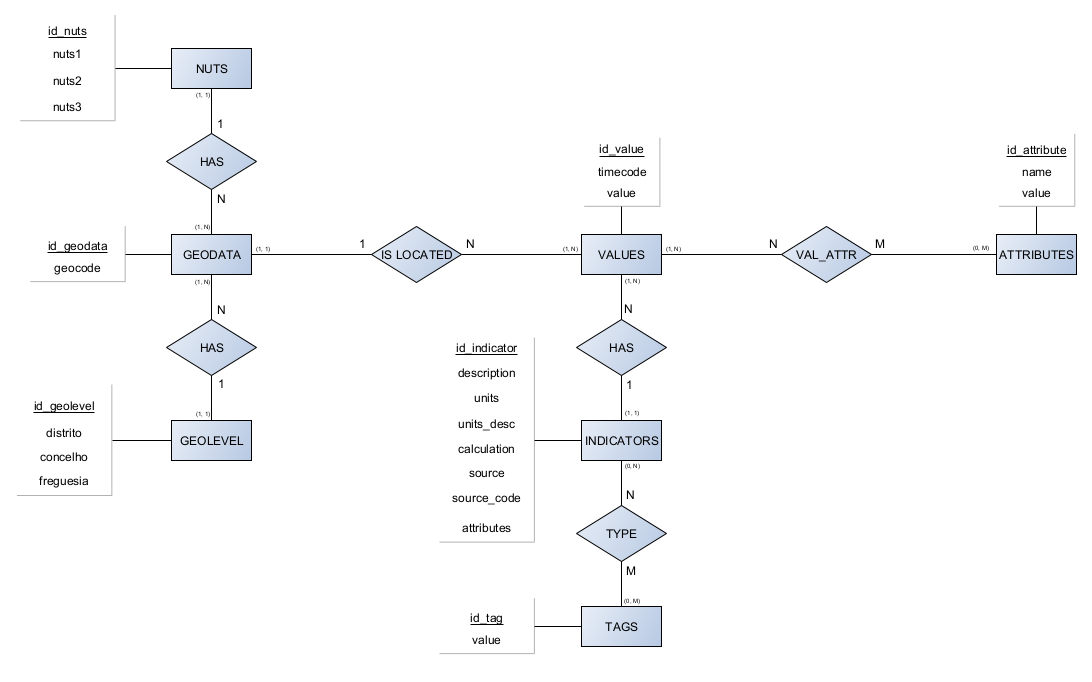
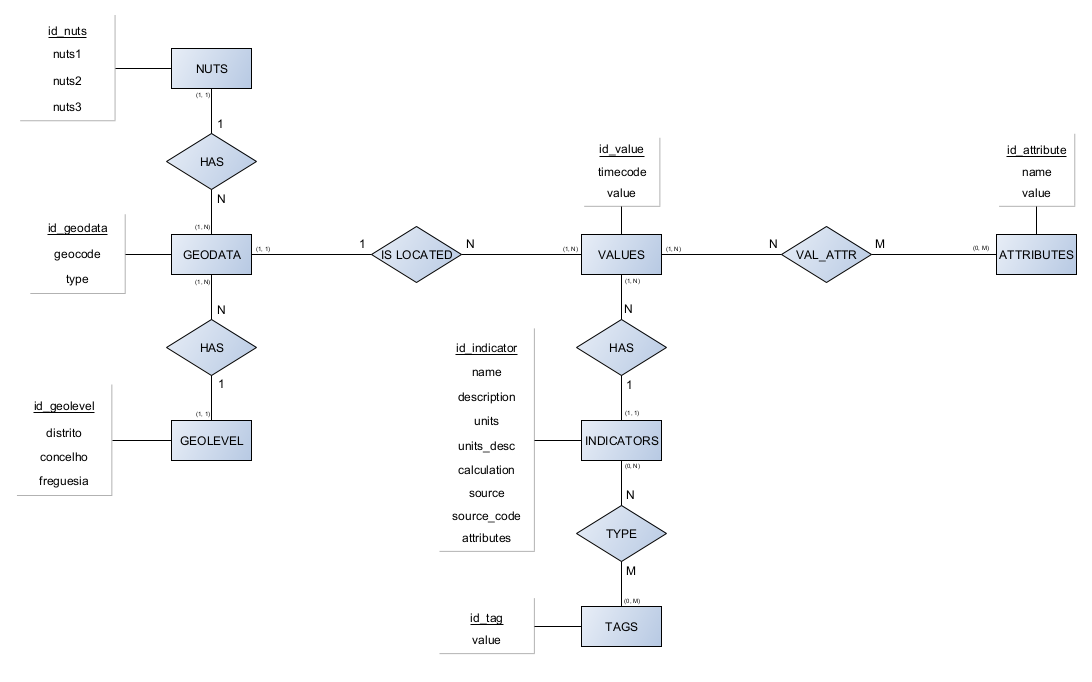
Added db creation code

Changed region(s): [[0.4048, 0.5235, 0.467, 0.8006], [0.0311, 0.3079, 0.0934, 0.4311]]

diff --git a/app/db/sqlite/create_db.py b/app/db/sqlite/create_db.py
@@ -1,0 +1,88 @@
+CREATE_STAGGING_TABLE = """
+CREATE IF NOT EXISTS stg_table(
+nuts1 TEXT,
+nuts2 TEXT,
+nuts3 TEXT,
+geocode TEXT,
+type TEXT,
+distrito TEXT,
+concelho TEXT,
+freguesia TEXT,
+timecode TEXT,
+value_value TEXT,
+name_indicator TEXT,
+description TEXT,
+units TEXT,
+units_desc TEXT,
+calculation TEXT,
+source TEXT,
+source_code TEXT,
+attributes TEXT,
+value_tag TEXT,
+name_attribute TEXT,
+value_attribute TEXT
+);
+"""
+
+CREATE_NUTS_TABLE = """
+CREATE TABLE IF NOT EXISTS nuts(
+id_nuts INTEGER PRIMARY KEY AUTOINCREMENT,
+nuts1 TEXT,
+nuts2 TEXT,
+nuts3 TEXT
+);
+"""
+
+CREATE_GEODATA_TABLE = """
+CREATE TABLE IF NOT EXISTS geodata(
+id_geodata INTEGER PRIMARY KEY AUTOINCREMENT,
+geocode TEXT,
+type TEXT
+);
+"""
+
+CREATE_GEOLEVEL_TABLE = """
+CREATE TABLE IF NOT EXISTS geolevel(
+id_geolevel INTEGER PRIMARY KEY AUTOINCREMENT,
+distrito TEXT,
+concelho TEXT,
+freguesia TEXT
+);
+"""
+
+CREATE_VALUES_TABLE = """
+CREATE TABLE IF NOT EXISTS values(
+id_value INTEGER PRIMARY KEY AUTOINCREMENT,
+timecode REAL,
+value REAL
+);
+"""
+
+CREATE_INDICATORS_TABLE = """
+CREATE TABLE IF NOT EXISTS indicators(
+id_indicator INTEGER PRIMARY KEY AUTOINCREMENT,
+name TEXT,
+description TEXT,
+units TEXT,
+units_desc TEXT,
+calculation TEXT,
+source TEXT,
+source_code TEXT,
+attributes TEXT
+);
+"""
+
+CREATE_TAGS_TABLE = """
+CREATE TABLE IF NOT EXISTS tags(
+id_tag INTEGER PRIMARY KEY AUTOINCREMENT,
+value TEXT
+);
+"""
+
+CREATE_ATTRIBUTES_TABLE = """
+CREATE TABLE IF NOT EXISTS attributes(
+id_attribute INTEGER PRIMARY KEY AUTOINCREMENT,
+name TEXT,
+value TEXT
+);
+"""

diff --git a/app/indicators_data/eurostat/eurostat_main.py b/app/indicators_data/eurostat/eurostat_main.py
@@ -1,0 +1,33 @@
+from data_extraction import eurostat_client_data, eurostat_get_metadata
+from data_processing import eurostat_datacodes, eurostat_join_codes, eurostat_final_data
+
+
+def eurostat_main():
+    try:
+        eurostat_client_data.main()
+    except Exception as e:
+        print(f"Error: {e}")
+    
+    try:
+        eurostat_get_metadata.main()
+    except Exception as e:
+        print(f"Error: {e}")
+
+    try:
+        eurostat_datacodes.main()
+    except Exception as e:
+        print(f"Error: {e}")
+
+    try:
+        eurostat_join_codes.main()
+    except Exception as e:
+        print(f"Error: {e}")
+
+    try:
+        eurostat_final_data.main()
+    except Exception as e:
+        print(f"Error: {e}")
+        
+
+if __name__ == "__main__":
+    eurostat_main()

diff --git a/app/indicators_data/eredes/eredes_main.py b/app/indicators_data/eredes/eredes_main.py
@@ -3,15 +3,15 @@ from data_processing import eredes_merge_files, eredes_final_format
 
 
 def eredes_main():
-    #try:
-        #eredes_data.main()
-    #except Exception as e:
-        #print(f"Error en eredes_data.main(): {e}")
+    try:
+        eredes_data.main()
+    except Exception as e:
+        print(f"Error en eredes_data.main(): {e}")
     
-    #try:
-        #eredes_metadata.main()
-    #except Exception as e:
-        #print(f"Error en eredes_metadata.main(): {e}")
+    try:
+        eredes_metadata.main()
+    except Exception as e:
+        print(f"Error en eredes_metadata.main(): {e}")
 
     try:
         eredes_merge_files.main()

diff --git a/app/indicators_data/ine/data_processing/ine_merge_data.py b/app/indicators_data/ine/data_processing/ine_merge_data.py
@@ -142,5 +142,12 @@ def merge_data(raw_data_path: str, metadata_path: str, output_folder: str) -> No
         print(f'Archivo CSV generado: {filename}')
 
 
+def main():
+    try:
+        merge_data(raw_data_path=s.ine_data_path, metadata_path=s.ine_metadata_path, output_folder=s.ine_processed_data)
+    except Exception as e:
+        print(f"Error: {e}")
+
+
 if __name__=="__main__":
-    merge_data(raw_data_path=s.ine_data_path, metadata_path=s.ine_metadata_path, output_folder=s.ine_processed_data)
+    main()

diff --git a/app/indicators_data/worldbank/data_processing/wb_final_data.py b/app/indicators_data/worldbank/data_processing/wb_final_data.py
@@ -133,5 +133,12 @@ def final_data(wb_data_path: str, wb_metadata_path: str, wb_final_path: str) -> 
         print("CSV successfully generated.")
 
 
+def main():
+    try:
+        final_data(wb_data_path=s.wb_data_path, wb_metadata_path=s.wb_metadata_path,wb_final_path=s.wb_final_path)
+    except Exception as e:
+        print("An exception occured: {e}")
+
+
 if __name__=="__main__":
-    final_data(wb_data_path=s.wb_data_path, wb_metadata_path=s.wb_metadata_path,wb_final_path=s.wb_final_path)
+    main()

diff --git a/app/indicators_data/ine/ine_main.py b/app/indicators_data/ine/ine_main.py
@@ -1,0 +1,23 @@
+from data_extraction import ine_api
+from data_processing import ine_merge_data, ine_final_data
+
+
+def ine_main():
+    try:
+        ine_api.main()
+    except Exception as e:
+        print(f"Error: {e}")
+    
+    try:
+        ine_merge_data.main()
+    except Exception as e:
+        print(f"Error: {e}")
+
+    try:
+        ine_final_data.main()
+    except Exception as e:
+        print(f"Error: {e}")
+        
+
+if __name__ == "__main__":
+    ine_main()

diff --git a/app/indicators_data/worldbank/wb_main.py b/app/indicators_data/worldbank/wb_main.py
@@ -1,0 +1,18 @@
+from data_extraction import wb_api
+from data_processing import wb_final_data
+
+
+def wb_main():
+    try:
+        wb_api.main()
+    except Exception as e:
+        print(f"Error: {e}")
+    
+    try:
+        wb_final_data.main()
+    except Exception as e:
+        print(f"Error: {e}")
+
+
+if __name__ == "__main__":
+    wb_main()
